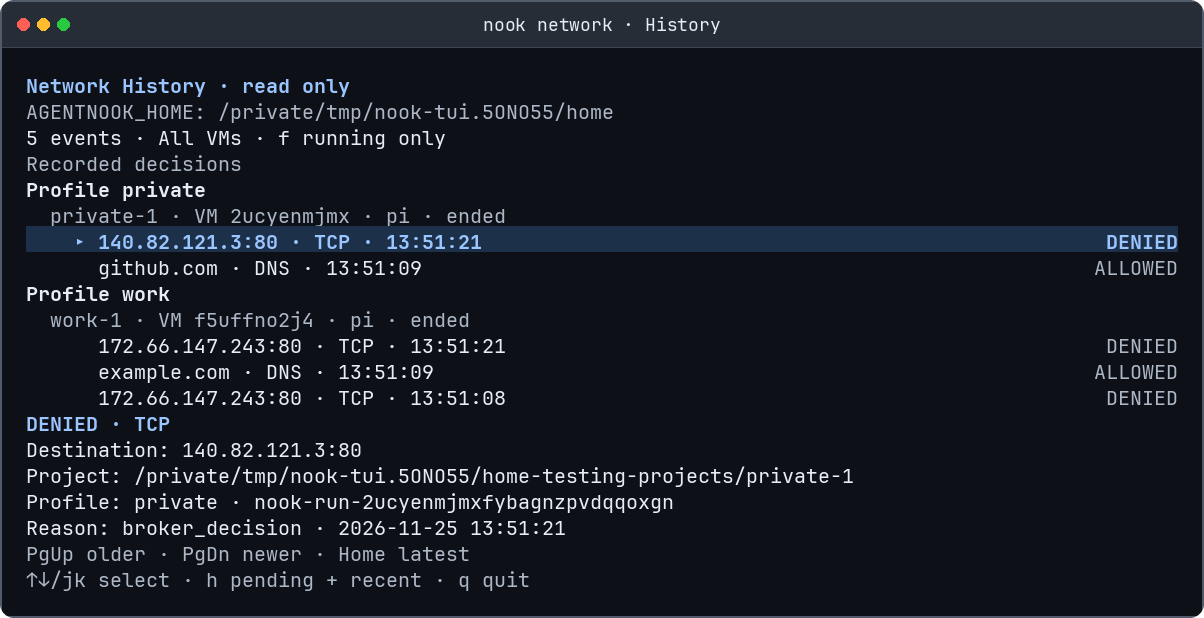
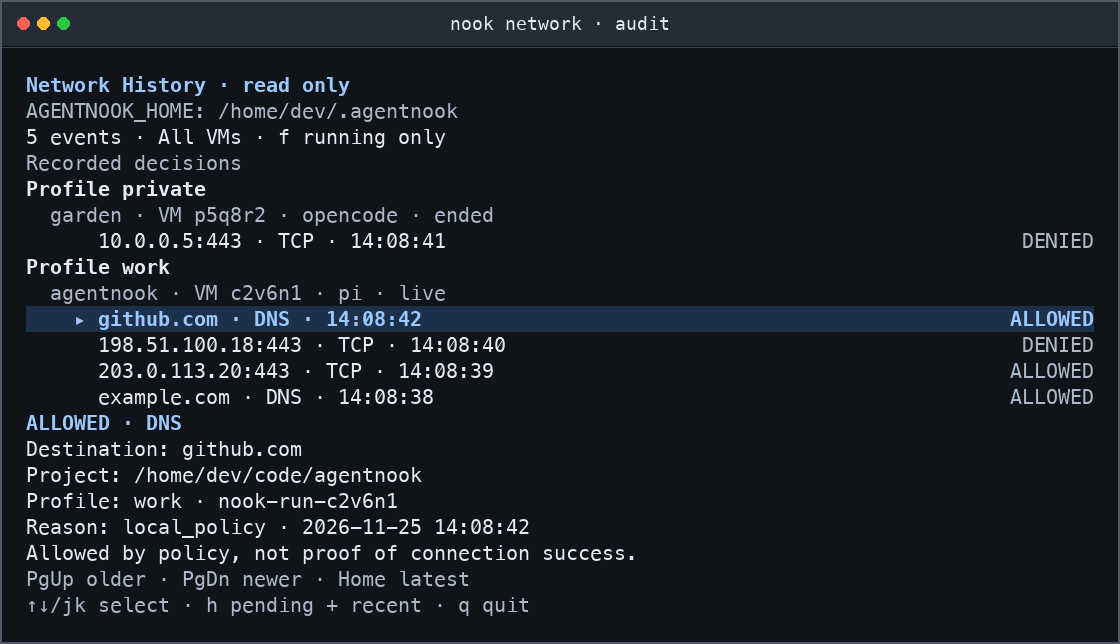
docs(readme): refresh terminal screenshots

diff --git a/README.md b/README.md
@@ -34,14 +34,14 @@ Danach `nook` im Projektordner starten.
 
 `nook watch` zeigt laufende Agenten-VMs über alle Projekte hinweg, gruppiert nach Profil.
 
-![Watch-Ansicht mit vier laufenden Pi-VMs in den Profilen private und work](docs/screenshots/watch.png)
+![Watch-Ansicht mit laufenden Pi-, OpenCode- und Claude-Code-VMs in den Profilen private und work](docs/screenshots/watch.png)
 
 ### `nook network`
 
 Mit `nook network` entscheidest du im Modus `--network ask`, welche ausgehenden TCP-Verbindungen der Agent aufbauen darf. Im Audit siehst du gespeicherte Netzwerkentscheidungen auch nach Ende der VM: erlaubte und blockierte Zugriffe in `ask`, nur blockierte in `full`.
 
-![Network-Ansicht mit offenen Freigaben für github.com und example.com](docs/screenshots/network.png)
+![Network-Ansicht mit zwei offenen TCP-Anfragen und den letzten Netzwerkentscheidungen](docs/screenshots/network.png)
 
 Im Audit siehst du gespeicherte Netzwerkentscheidungen auch nach Ende der VM: erlaubte und blockierte Zugriffe in ask, nur blockierte in full.
 
-![Network-Historie mit erlaubten DNS-Anfragen sowie erlaubten und abgelehnten TCP-Verbindungen](docs/screenshots/network-history.png)
+![Audit mit erlaubten und blockierten Zugriffen laufender und beendeter VMs](docs/screenshots/network-history.png)
